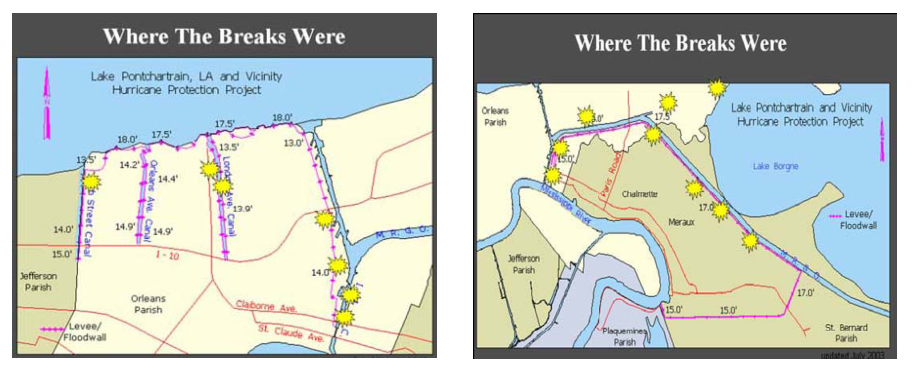
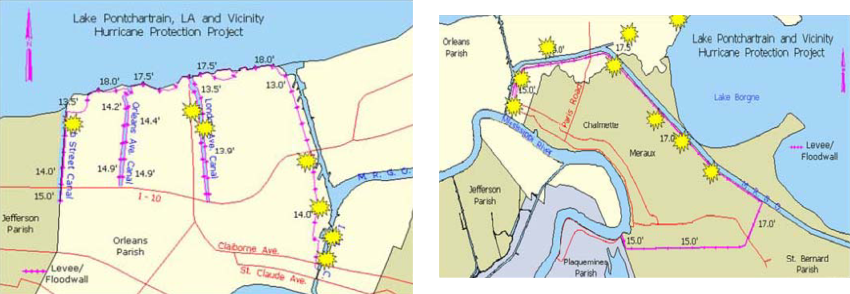
Ajustes en el tamaño de las imágenes del capítulo 6

diff --git a/capitulo6/cap6.tex b/capitulo6/cap6.tex
@@ -28,7 +28,7 @@ nosotros nos centraremos en la zona mas afectada en Nueva Orlenas
 
 \begin{figure}[H]
  \centering
- \includegraphics[width=120mm]{figuras/cap6/NOarea1.png}
+ \includegraphics[height=130mm,angle=90]{figuras/cap6/NOarea1.png}
  \caption{Área de Simulación}
 \end{figure}
 
@@ -37,11 +37,11 @@ podrían dividir por el lecho del río.
 
 \begin{figure}[H]
  \centering
- \includegraphics[width=120mm]{figuras/cap6/affected.png}
+ \includegraphics[width=100mm]{figuras/cap6/affected.png}
  \caption{División en zonas del área afectada}
 \end{figure}
 
-Aqui podemos apreciarlas mas en detalle.
+Aquí podemos apreciarlas mas en detalle.
 
 \begin{figure}[H]
  \centering
@@ -51,13 +51,13 @@ Aqui podemos apreciarlas mas en detalle.
 
 \begin{figure}[H]
  \centering
- \includegraphics[width=120mm]{figuras/cap6/NOarea3.png}
+ \includegraphics[height=130mm,angle=90]{figuras/cap6/NOarea3.png}
  \caption{Zona 2 de simulación}
 \end{figure}
 
 \begin{figure}[H]
  \centering
- \includegraphics[width=120mm]{figuras/cap6/NOarea4.png}
+ \includegraphics[width=135mm]{figuras/cap6/NOarea4.png}
  \caption{Zona 3 de simulación}
 \end{figure}
 
@@ -76,7 +76,7 @@ De este mapa podemos ver las localizaciones donde los diques se rompieron.
 
 \begin{figure}[H]
  \centering
- \includegraphics[width=120mm]{figuras/cap6/dikes.png}
+ \includegraphics[width=135mm]{figuras/cap6/dikes.png}
  \caption{Mapa con las localizaciones de las roturas de los diques}
 \end{figure}
 
@@ -92,15 +92,15 @@ simulación de donde se encontraban los diques.
 
 \begin{figure}[H]
  \centering
- \includegraphics[width=120mm]{figuras/cap6/dikes1.png}
- \caption{Detalle de las roturas de los diques}
+ \includegraphics[width=135mm]{figuras/cap6/dikes1.png}
+ \caption{Detalle de las roturas de los diques 1}
 \end{figure}
 
 
 \begin{figure}[H]
  \centering
- \includegraphics[width=30mm]{figuras/cap6/dikes2.png}
- \caption{Detalle de las roturas de los diques}
+ \includegraphics[width=140mm]{figuras/cap6/dikes2.png}
+ \caption{Detalle de las roturas de los diques 2}
 \end{figure}
 
 \subsection*{Rutas de evacuación y refugios}
@@ -115,7 +115,7 @@ temporalmente pudieron refugiarse algunos ciudadanos.
 
 \begin{figure}[H]
  \centering
- \includegraphics[width=30mm]{figuras/cap6/evacuation.png}
+ \includegraphics[width=100mm]{figuras/cap6/evacuation.png}
  \caption{Rutas de evacuación}
 \end{figure}
 
